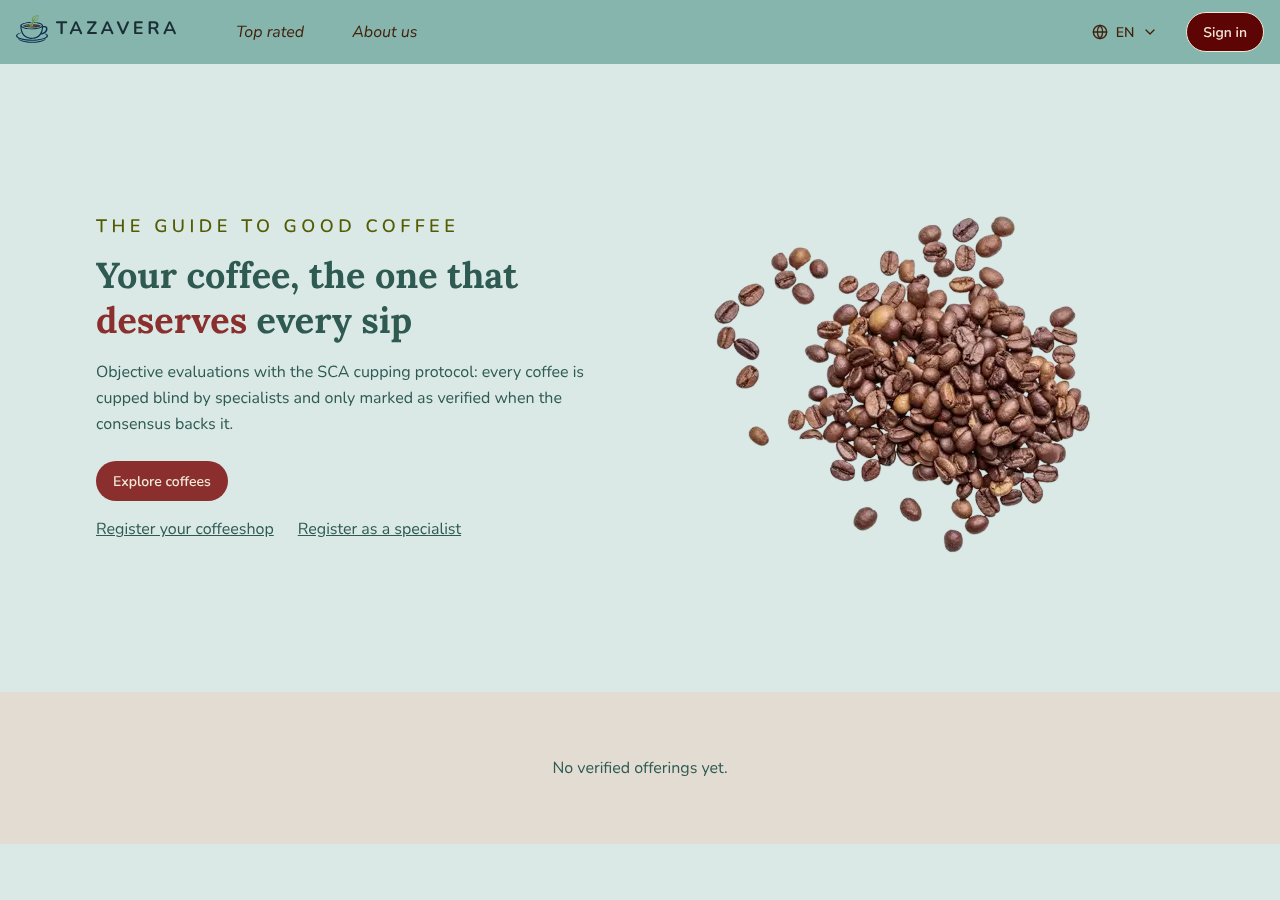
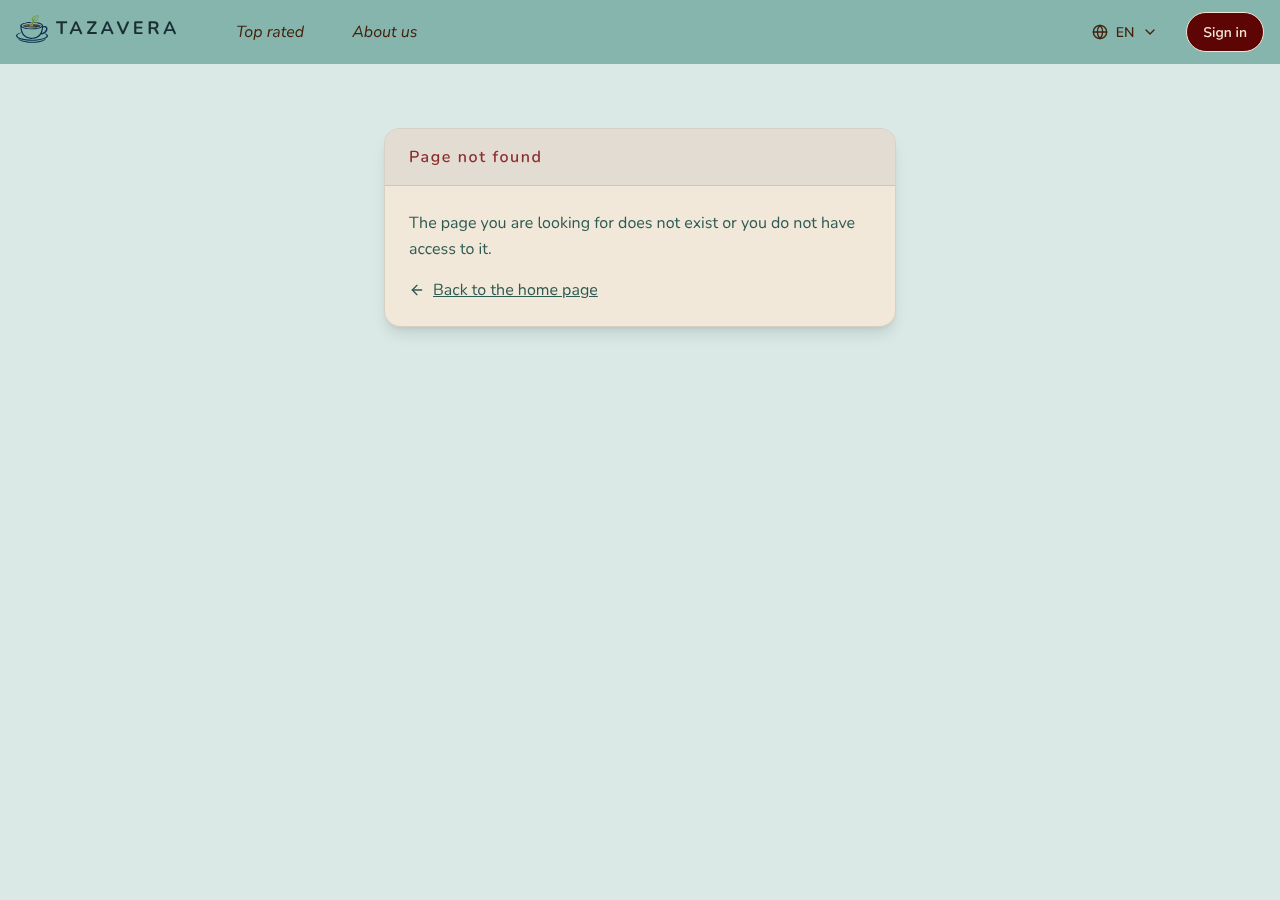
docs(app-shell): update handoff for add-not-found-page
Re-run of the task 2.2 browser checks after design.md D7: in-app
navigation to an unknown path now shows the not-found page.

Refs: add-not-found-page

Claude-Session: https://claude.ai/code/session_01Dhx2ydv9xA5AHND7qNZDZG

diff --git a/docs/design/add-not-found-page/handoff.md b/docs/design/add-not-found-page/handoff.md
@@ -35,3 +35,24 @@ Observations (no check of this task):
 - The server HTML of the 404 responses is Next's error document (`<html id="__next_error__">`); the not-found UI arrives in the RSC payload and renders on the client. Visible output is correct in the browser; without JavaScript the page is blank.
 
 Verdict: every check PASS except in-app navigation to an unknown path (FAIL, existing parallel-route behaviour; needs a decision: correction or backlog). Task 2.2 not checked off.
+
+## Session 2026-10-08 — soft navigation fix (cloud)
+
+Branch `claude/add-not-found-page-softnav` from `origin/claude/add-not-found-page-apply` (`7fc7987`), at `1059fd1` (design.md D7 and task 1.4 applied: `app/[locale]/[...rest]/page.tsx` calls `notFound()`).
+
+### Setup
+Same as the 2026-10-07 session, rebuilt from scratch: HTTPS mock on `127.0.0.1:443` for `api.tazavera.test` (hosts entry, self-signed certificate through `NODE_EXTRA_CA_CERTS`) answering `{"data": []}`; `npm run build` + `npm run start` with the same three `NEXT_PUBLIC_*` values; Playwright 1.56 from a scratch folder with Chromium at `/opt/pw-browsers`, intercepting `https://api.tazavera.test/**` with the same silent sign-in flow (`tazavera.signed-in` marker, `/oauth/authorize` 302 to `/callback`, `/oauth/token` grant, `GET /user` with the contract example and the role under test). Theme cookie `traditional`, viewport 1280×900.
+
+### Captures
+`captures/in-app-navigation-1280-light.png` replaced: state after the in-app navigation from `/en` to `/en/no-such-page`.
+
+### Results
+| Check | Result | Evidence |
+|---|---|---|
+| In-app navigation to an unknown path shows the page in the active locale | PASS | from `/en`, `router.push('/en/no-such-page')` (the mechanism of `next/link`): URL `/en/no-such-page`, no document request, header present, one `h1` "Page not found", `<html lang="en">`, link "Back to the home page" with `href` `/en`; clicking it returns to `/en` with the home `h1` |
+| `/es/no-existe` (hard navigation) answers HTTP 404 with the page | PASS | status 404, header present, `h1` "Página no encontrada", `<meta name="robots" content="noindex">` |
+| Role not allowed: `/es/manage/offerings` as a signed-in specialist | PASS | `h1` "Página no encontrada" inside the shell after the silent sign-in |
+| Home still renders | PASS | `/es` status 200, `h1` "Tu café, el que merece cada sorbo", no not-found text |
+| Defined routes still resolve (catch-all has the lowest priority) | PASS | HTTP: `/en`, `/es`, `/es/offerings`, `/es/account`, `/es/register`, `/es/register/coffeeshop`, `/es/manage/offerings`, `/es/manage/offerings/new`, `/es/manage/locations`, `/es/manage/evaluations`, `/es/about` answer 200; `/es/manage/evaluations/new?offering=<ULID>` 200 (without `offering` 404, its existing behaviour); `/es/a/b/c` 404. Soft navigation from `/es` to `/es/offerings`, `/es/register`, `/es/account`, `/es/about`, `/es/manage/offerings` and back to `/es` shows each route's own `h1`, never the not-found text. `npm run build` route list holds every existing route plus `/[locale]/[...rest]` |
+
+Verdict: the 2026-10-07 FAIL is resolved; every check of task 2.2 now passes (the other checks of the 2026-10-07 table are unaffected by D7, which adds only a children-slot page for paths no route defines).
